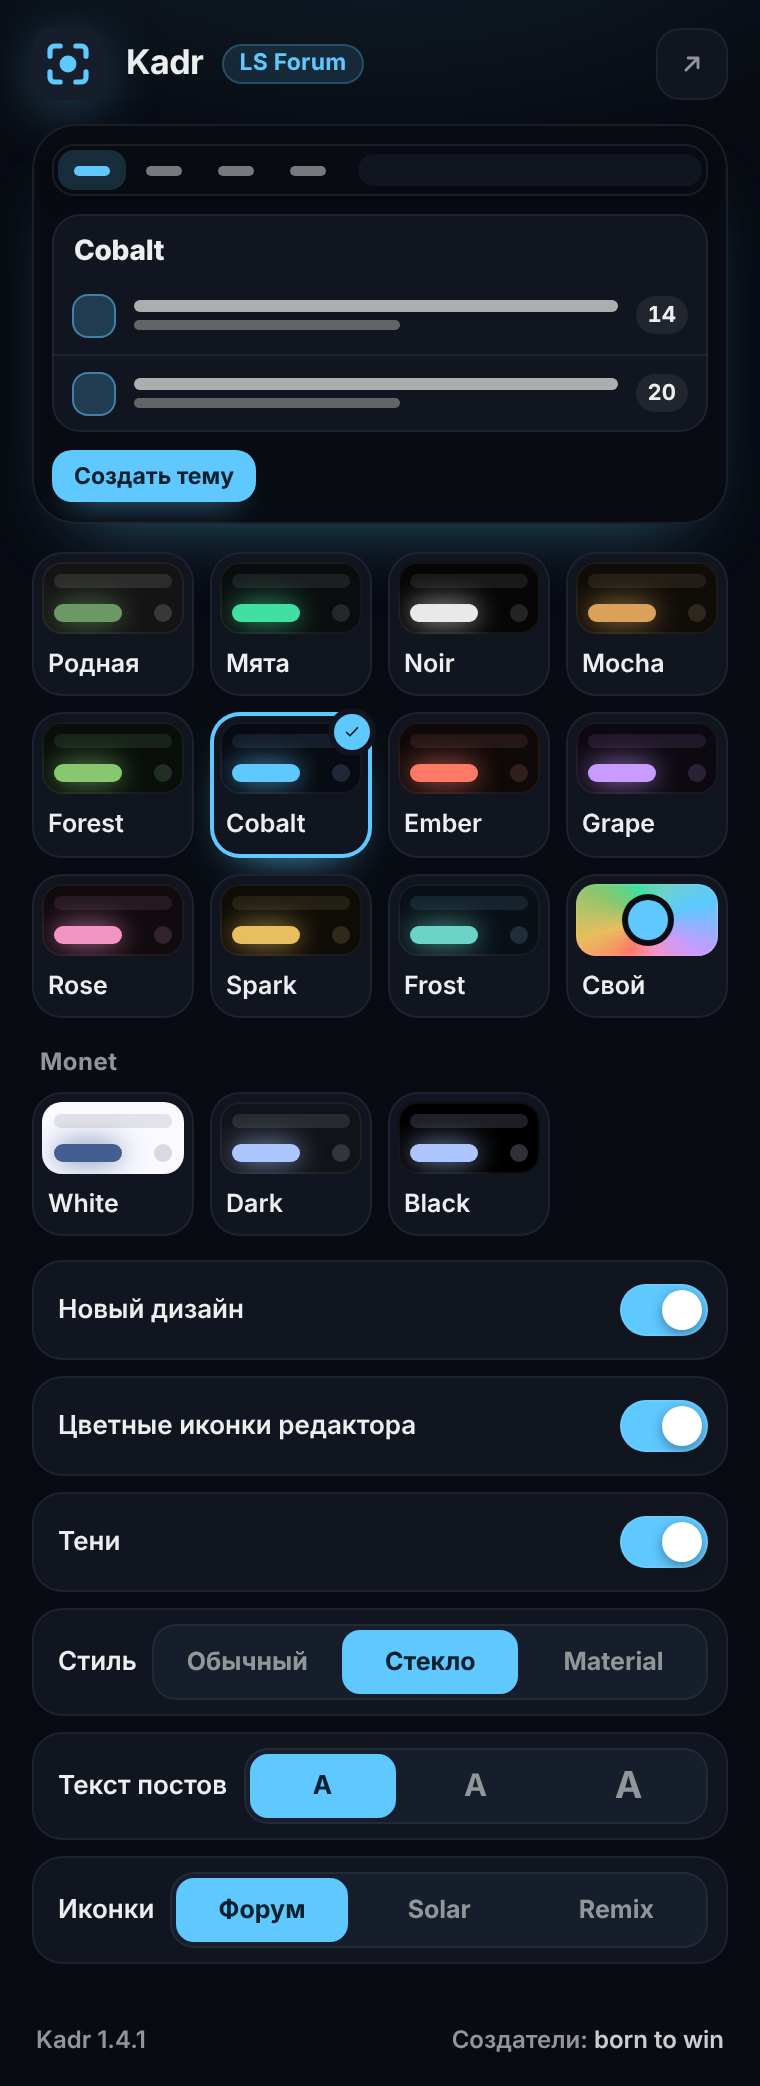
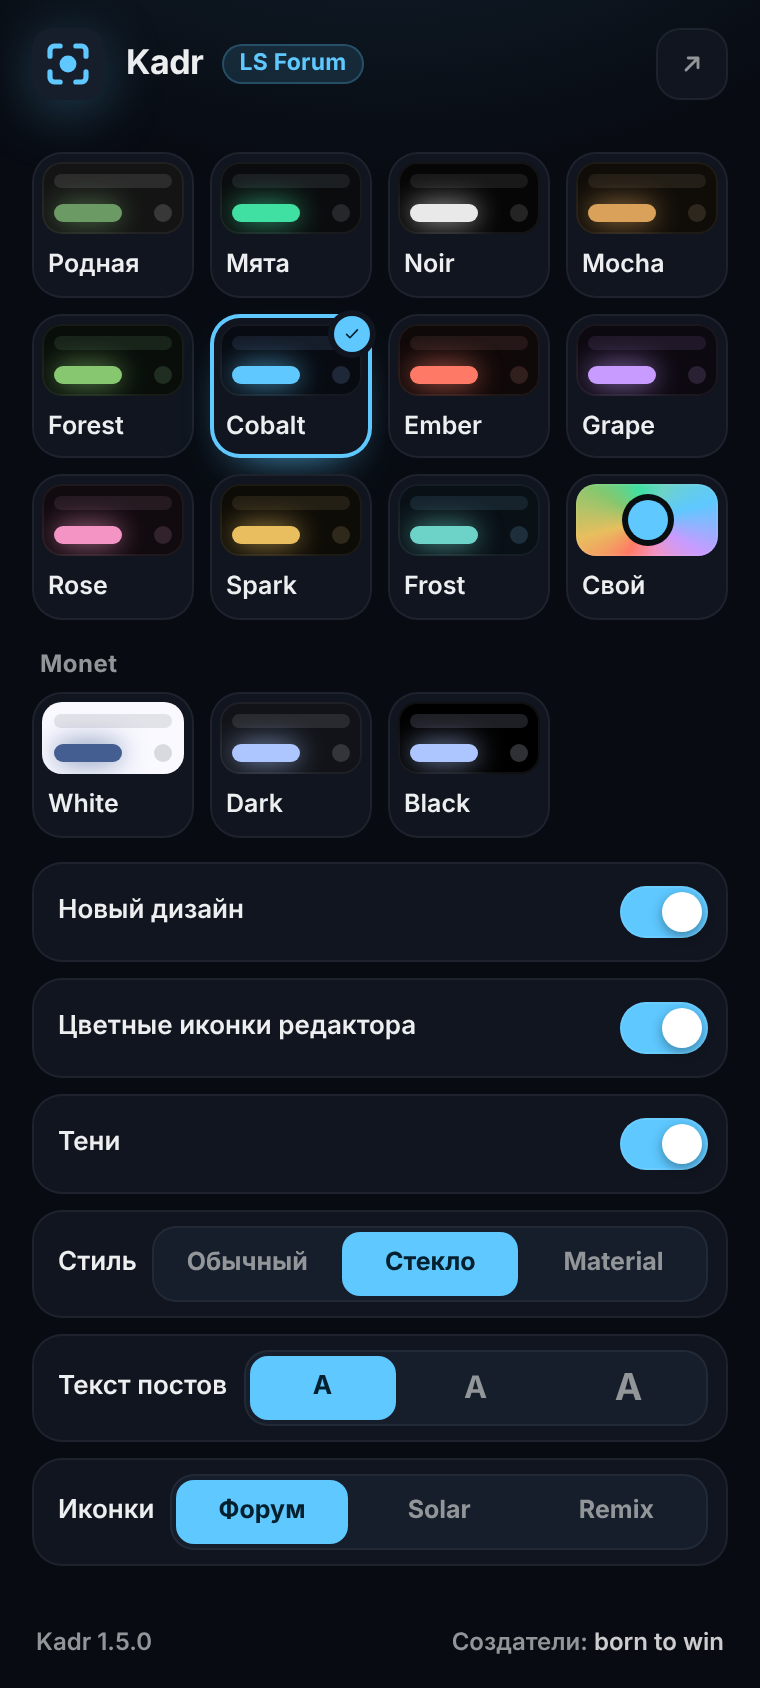
Kadr LS 1.5.0: drop the forum mock-up from the extension window
The window opens straight on the theme grid; the preview card with its tabs, rows and «Создать тему»
button is gone together with its styles and the script that painted it. The settings sheet on phones
already hid it, so nothing changes there. The README screenshot and the zip are refreshed.

Claude-Session: https://claude.ai/code/session_017d2AiPwH4XWUfwzcvqMtrz

diff --git a/extensions/kadr-lsforum/popup.css b/extensions/kadr-lsforum/popup.css
@@ -81,52 +81,6 @@ a.btn { display: inline-flex; align-items: center; text-decoration: none; }
 .foot a { color: rgb(var(--tx) / .86); text-decoration: none; }
 .foot a:hover { color: rgb(var(--acc)); }
 
-.hero {
-  --f-page: #141414; --f-panel: #262626; --f-raised: #2c2c2c; --f-line: #383838; --f-acc: #6c9a64; --f-ink: #0b1409;
-  --f-tx: #eeeeee; --f-tx2: #d5d5d5; --f-mut: #999999;
-  position: relative; overflow: hidden;
-  margin: 0 var(--pad); padding: 10px 10px 11px;
-  border-radius: 22px; background: var(--f-page);
-  box-shadow: inset 0 0 0 1px rgb(var(--line) / .08), 0 18px 36px -24px rgb(var(--acc) / .55);
-  transition: background-color .35s, box-shadow .35s;
-}
-.hero i, .hero b { font-style: normal; }
-.f-nav { display: flex; align-items: center; gap: 2px; padding: 3px; border-radius: 4px; background: #151515; background: color-mix(in srgb, var(--f-page) 70%, black); transition: background-color .35s; }
-.f-nav i { width: 34px; height: 20px; display: grid; place-items: center; border-radius: 3px; }
-.f-nav i::before { content: ""; width: 18px; height: 5px; border-radius: 3px; background: var(--f-tx2); opacity: .55; }
-.f-nav i.on::before { opacity: 1; }
-.f-search { flex: 1; height: 16px; margin-left: 6px; border-radius: 8px; background: var(--f-panel); transition: background-color .35s; }
-.f-card { margin-top: 9px; border-radius: 4px; background: var(--f-panel); overflow: hidden; transition: background-color .35s; }
-.f-title { display: block; padding: 7px 10px; font-size: 13px; font-weight: 700; color: var(--f-tx); background: var(--f-raised); white-space: nowrap; overflow: hidden; text-overflow: ellipsis; transition: background-color .35s; }
-.f-row { display: flex; align-items: center; gap: 9px; padding: 8px 10px; border-top: 1px solid var(--f-line); transition: border-color .35s; }
-.f-ico { flex: none; width: 22px; height: 22px; border-radius: 3px; background: var(--f-acc); opacity: .85; transition: background-color .35s; }
-.f-lines { flex: 1; min-width: 0; display: grid; gap: 4px; }
-.f-lines i { height: 6px; border-radius: 3px; background: var(--f-tx2); opacity: .8; }
-.f-lines i.short { width: 55%; height: 5px; background: var(--f-mut); opacity: .6; }
-.f-num { flex: none; min-width: 26px; padding: 2px 6px; border-radius: 3px; font-size: 11px; font-weight: 700; text-align: center; color: var(--f-tx); background: var(--f-raised); font-variant-numeric: tabular-nums; transition: background-color .35s; }
-.f-btn { display: inline-flex; margin-top: 9px; padding: 5px 11px; border-radius: 4px; font-size: 11.5px; font-weight: 700; background: var(--f-acc); color: var(--f-ink); transition: background-color .35s, color .35s; }
-
-.hero.skin .f-nav { border-radius: 11px; background: color-mix(in srgb, var(--f-page) 60%, transparent); box-shadow: inset 0 0 0 1px rgb(255 255 255 / .08), 0 6px 14px -8px rgb(0 0 0 / .7); }
-.hero.skin .f-nav i { border-radius: 8px; }
-.hero.skin .f-nav i.on { background: color-mix(in srgb, var(--f-acc) 18%, transparent); }
-.hero.skin .f-nav i.on::before { background: var(--f-acc); }
-.hero.skin .f-search { border-radius: 9px; }
-.hero.skin .f-card { border-radius: 14px; box-shadow: inset 0 0 0 1px rgb(255 255 255 / .06); }
-.hero.skin .f-title { background: transparent; font-size: 14px; font-weight: 800; letter-spacing: -.01em; padding: 9px 11px 3px; }
-.hero.skin .f-row { border-top-color: rgb(255 255 255 / .06); }
-.hero.skin .f-row:first-of-type { border-top: 0; }
-.hero.skin .f-ico { border-radius: 8px; opacity: 1; background: color-mix(in srgb, var(--f-acc) 22%, transparent); box-shadow: inset 0 0 0 1px color-mix(in srgb, var(--f-acc) 50%, transparent); }
-.hero.skin .f-num { border-radius: 999px; background: rgb(255 255 255 / .07); }
-.hero.skin .f-btn { border-radius: 10px; box-shadow: 0 8px 16px -10px var(--f-acc); }
-
-.hero.light .f-nav { background: #121212; }
-.hero.light .f-nav i::before { background: #e8e8e8; }
-.hero.light .f-search { background: #2a2a2a; }
-.hero.light.skin .f-nav { background: rgb(18 18 18 / .92); box-shadow: 0 6px 14px -8px rgb(0 0 0 / .45); }
-.hero.light.skin .f-card { box-shadow: 0 1px 2px rgb(0 0 0 / .06), inset 0 0 0 1px rgb(0 0 0 / .07); }
-.hero.light.skin .f-row { border-top-color: rgb(0 0 0 / .07); }
-.hero.light.skin .f-num { background: rgb(0 0 0 / .05); }
-
 .panel { padding: 14px var(--pad) max(16px, env(safe-area-inset-bottom)); }
 .themes { display: grid; grid-template-columns: repeat(4, minmax(0, 1fr)); gap: 8px; }
 .th {
@@ -236,7 +190,7 @@ a.btn { display: inline-flex; align-items: center; text-decoration: none; }
 [data-mode="sheet"], [data-mode="sheet"] body { overscroll-behavior: contain; }
 [data-mode="sheet"] body { width: auto; max-width: none; min-width: 0; background: rgb(var(--bg)); }
 [data-mode="sheet"] .top { padding-top: 4px; }
-[data-mode="sheet"] .hero, [data-mode="sheet"] #openSite { display: none; }
+[data-mode="sheet"] #openSite { display: none; }
 [data-mode="sheet"] #closeSheet { display: grid; }
 [data-mode="sheet"] .panel { padding-top: 2px; }
 

diff --git a/extensions/kadr-lsforum/popup.js b/extensions/kadr-lsforum/popup.js
@@ -7,7 +7,6 @@
   var $ = function (id) { return document.getElementById(id); };
 
   var SHEET = /^#sheet/.test(location.hash);
-  var siteLight = /light/.test(location.hash);
 
   var UI = {
     external: 'M8 16 16 8M9.5 8H16v6.5',
@@ -184,13 +183,6 @@
     var v = K.uiVars(cur);
     for (var k in v) root.style.setProperty(k, v[k]);
     themeColor.content = 'rgb(' + v['--bg'].split(' ').join(',') + ')';
-    var f = K.forced(cur), light = f ? f === 'light' : siteLight;
-    var L = K.siteLook(cur, light), hero = document.querySelector('.hero');
-    hero.classList.toggle('skin', prefs.skin);
-    hero.classList.toggle('light', light);
-    [['--f-page', L.page], ['--f-panel', L.panel], ['--f-raised', L.raised], ['--f-line', L.line], ['--f-acc', L.acc], ['--f-ink', L.ink],
-      ['--f-tx', L.text], ['--f-tx2', L.text2], ['--f-mut', L.muted]].forEach(function (x) { hero.style.setProperty(x[0], x[1]); });
-    $('heroName').textContent = K.themeName(cur);
   }
 
   var prefs = { skin: true, menuEntry: true, ckeTint: true, shadows: true, fx: 'plain', icons: 'native', postSize: 'm' };
@@ -304,7 +296,7 @@
     chrome.permissions.request({ origins: K.HOSTS }, function (ok) { if (ok) $('perm').hidden = true; });
   });
 
-  store.get(['theme', 'seed', 'skin', 'menuEntry', 'ckeTint', 'shadows', 'fx', 'icons', 'siteScheme', 'postSize', 'updLatest'], function (d) {
+  store.get(['theme', 'seed', 'skin', 'menuEntry', 'ckeTint', 'shadows', 'fx', 'icons', 'postSize', 'updLatest'], function (d) {
     d = d || {};
     cur = { theme: d.theme || K.OFF, seed: d.seed || null };
     if (/^#[0-9a-f]{6}$/i.test(d.seed || '')) seed = d.seed.toLowerCase();
@@ -315,7 +307,6 @@
     prefs.fx = d.fx === 'glass' || d.fx === 'material' ? d.fx : 'plain';
     prefs.icons = d.icons === 'solar' || d.icons === 'remix' ? d.icons : 'native';
     prefs.postSize = d.postSize === 'l' || d.postSize === 'xl' ? d.postSize : 'm';
-    if (!SHEET && d.siteScheme === 'light') siteLight = true;
     showUpd(d.updLatest);
     slidersFromSeed();
     paintCustom();

diff --git a/extensions/kadr-lsforum/popup.html b/extensions/kadr-lsforum/popup.html
@@ -30,16 +30,6 @@
     <a class="btn" id="updBtn" href="https://forum.ls-project.com/index.php?/topic/924-x/" target="_blank" rel="noopener">Скачать</a>
   </div>
 
-  <section class="hero" aria-hidden="true">
-    <div class="f-nav"><i class="on"></i><i></i><i></i><i></i><span class="f-search"></span></div>
-    <div class="f-card">
-      <b class="f-title" id="heroName">Родная</b>
-      <div class="f-row"><span class="f-ico"></span><span class="f-lines"><i></i><i class="short"></i></span><span class="f-num">14</span></div>
-      <div class="f-row"><span class="f-ico"></span><span class="f-lines"><i></i><i class="short"></i></span><span class="f-num">20</span></div>
-    </div>
-    <span class="f-btn">Создать тему</span>
-  </section>
-
   <main class="panel">
     <div class="themes" id="themes" role="radiogroup" aria-label="Тема"></div>
     <div class="tune" id="tune" hidden>

diff --git a/README.md b/README.md
@@ -16,7 +16,7 @@
 |---|---|
 | **[Кадр для kinoarc](extensions/kadr-kinoarc/)**<br>Расширение: родные темы kinoarc.net и свой аватар | **[⬇ Скачать](https://github.com/splithillz/one/raw/main/releases/kadr-themes-kinoarc-v1.3.1.zip)**<br><sub>zip · 1.3.1 · 44 КБ</sub> |
 | **[Кадр для kinohub](extensions/kadr-kinohub/)**<br>Расширение: темы, новый дизайн, закладки и тайминги для on.kinohub.vip | **[⬇ Скачать](https://github.com/splithillz/one/raw/main/releases/kadr-themes-kinohub-v1.3.1.zip)**<br><sub>zip · 1.3.1 · 153 КБ</sub> |
-| **[Kadr для форума LS Project](extensions/kadr-lsforum/)**<br>Расширение: новый облик forum.ls-project.com, темы, Monet, стили | **[⬇ Скачать](https://github.com/splithillz/one/raw/main/releases/kadr-themes-lsforum-v1.5.0.zip)**<br><sub>zip · 1.5.0 · 223 КБ</sub> |
+| **[Kadr для форума LS Project](extensions/kadr-lsforum/)**<br>Расширение: новый облик forum.ls-project.com, темы, Monet, стили | **[⬇ Скачать](https://github.com/splithillz/one/raw/main/releases/kadr-themes-lsforum-v1.5.0.zip)**<br><sub>zip · 1.5.0 · 222 КБ</sub> |
 | **[Кадр для LuCI](openwrt/luci-theme-kadr/)**<br>Тема для роутера на OpenWrt и для podkop. Ставится [одной командой](#кадр-для-luci) | **[⬇ apk](https://github.com/splithillz/one/raw/main/releases/luci-theme-kadr-1.2.0-r1.apk)** <sub>для 25.12</sub><br>**[⬇ ipk](https://github.com/splithillz/one/raw/main/releases/luci-theme-kadr_1.2.0-r1_all.ipk)** <sub>для 24.10</sub> |
 
 Все файлы сразу — в папке [`releases`](releases/). Исправление опечаток для RP-чата — RP Speller и LS Autocorrect — переехало в репозиторий [**two**](https://github.com/splithillz/two).
@@ -65,7 +65,7 @@
 - На телефоне — кнопка «Тема» в панели форума и шторка с настройками.
 - Само проверяет, вышла ли новая версия.
 
-[![Скачать zip 1.5.0 · 223 КБ](https://img.shields.io/badge/%D1%81%D0%BA%D0%B0%D1%87%D0%B0%D1%82%D1%8C-zip%201.5.0%20%C2%B7%20223%20%D0%9A%D0%91-0f7a52?style=for-the-badge&labelColor=1b1f23)](https://github.com/splithillz/one/raw/main/releases/kadr-themes-lsforum-v1.5.0.zip)
+[![Скачать zip 1.5.0 · 222 КБ](https://img.shields.io/badge/%D1%81%D0%BA%D0%B0%D1%87%D0%B0%D1%82%D1%8C-zip%201.5.0%20%C2%B7%20222%20%D0%9A%D0%91-0f7a52?style=for-the-badge&labelColor=1b1f23)](https://github.com/splithillz/one/raw/main/releases/kadr-themes-lsforum-v1.5.0.zip)
 [![Описание и установка](https://img.shields.io/badge/%D0%BE%D0%BF%D0%B8%D1%81%D0%B0%D0%BD%D0%B8%D0%B5%20%D0%B8%20%D1%83%D1%81%D1%82%D0%B0%D0%BD%D0%BE%D0%B2%D0%BA%D0%B0-%E2%86%92-30363d?style=for-the-badge&labelColor=1b1f23)](extensions/kadr-lsforum/)
 
 Ещё: [тесты по живому форуму](extensions/kadr-lsforum-tests/) · [промо-картинки и текст](docs/promo/kadr-lsforum/)

diff --git a/extensions/kadr-lsforum/README.md b/extensions/kadr-lsforum/README.md
@@ -41,6 +41,8 @@
   обводились белым кольцом: форум прописал белый цвет прямо значением, мимо темы. Теперь вместо кольца прозрачный
   вырез, верхняя иконка будто вырезана из нижней по контуру. Это работает на любой теме, в «Стекле» и на белой
   схеме. Без нового дизайна, когда включена только палитра, кольцо просто в цвет карточки.
+- **Окно расширения короче.** Мини-макет форума над темами («Создать тему», полоски, счётчики) убран: темы
+  теперь сразу под шапкой окна.
 
 ## Что нового в 1.4.1
 
